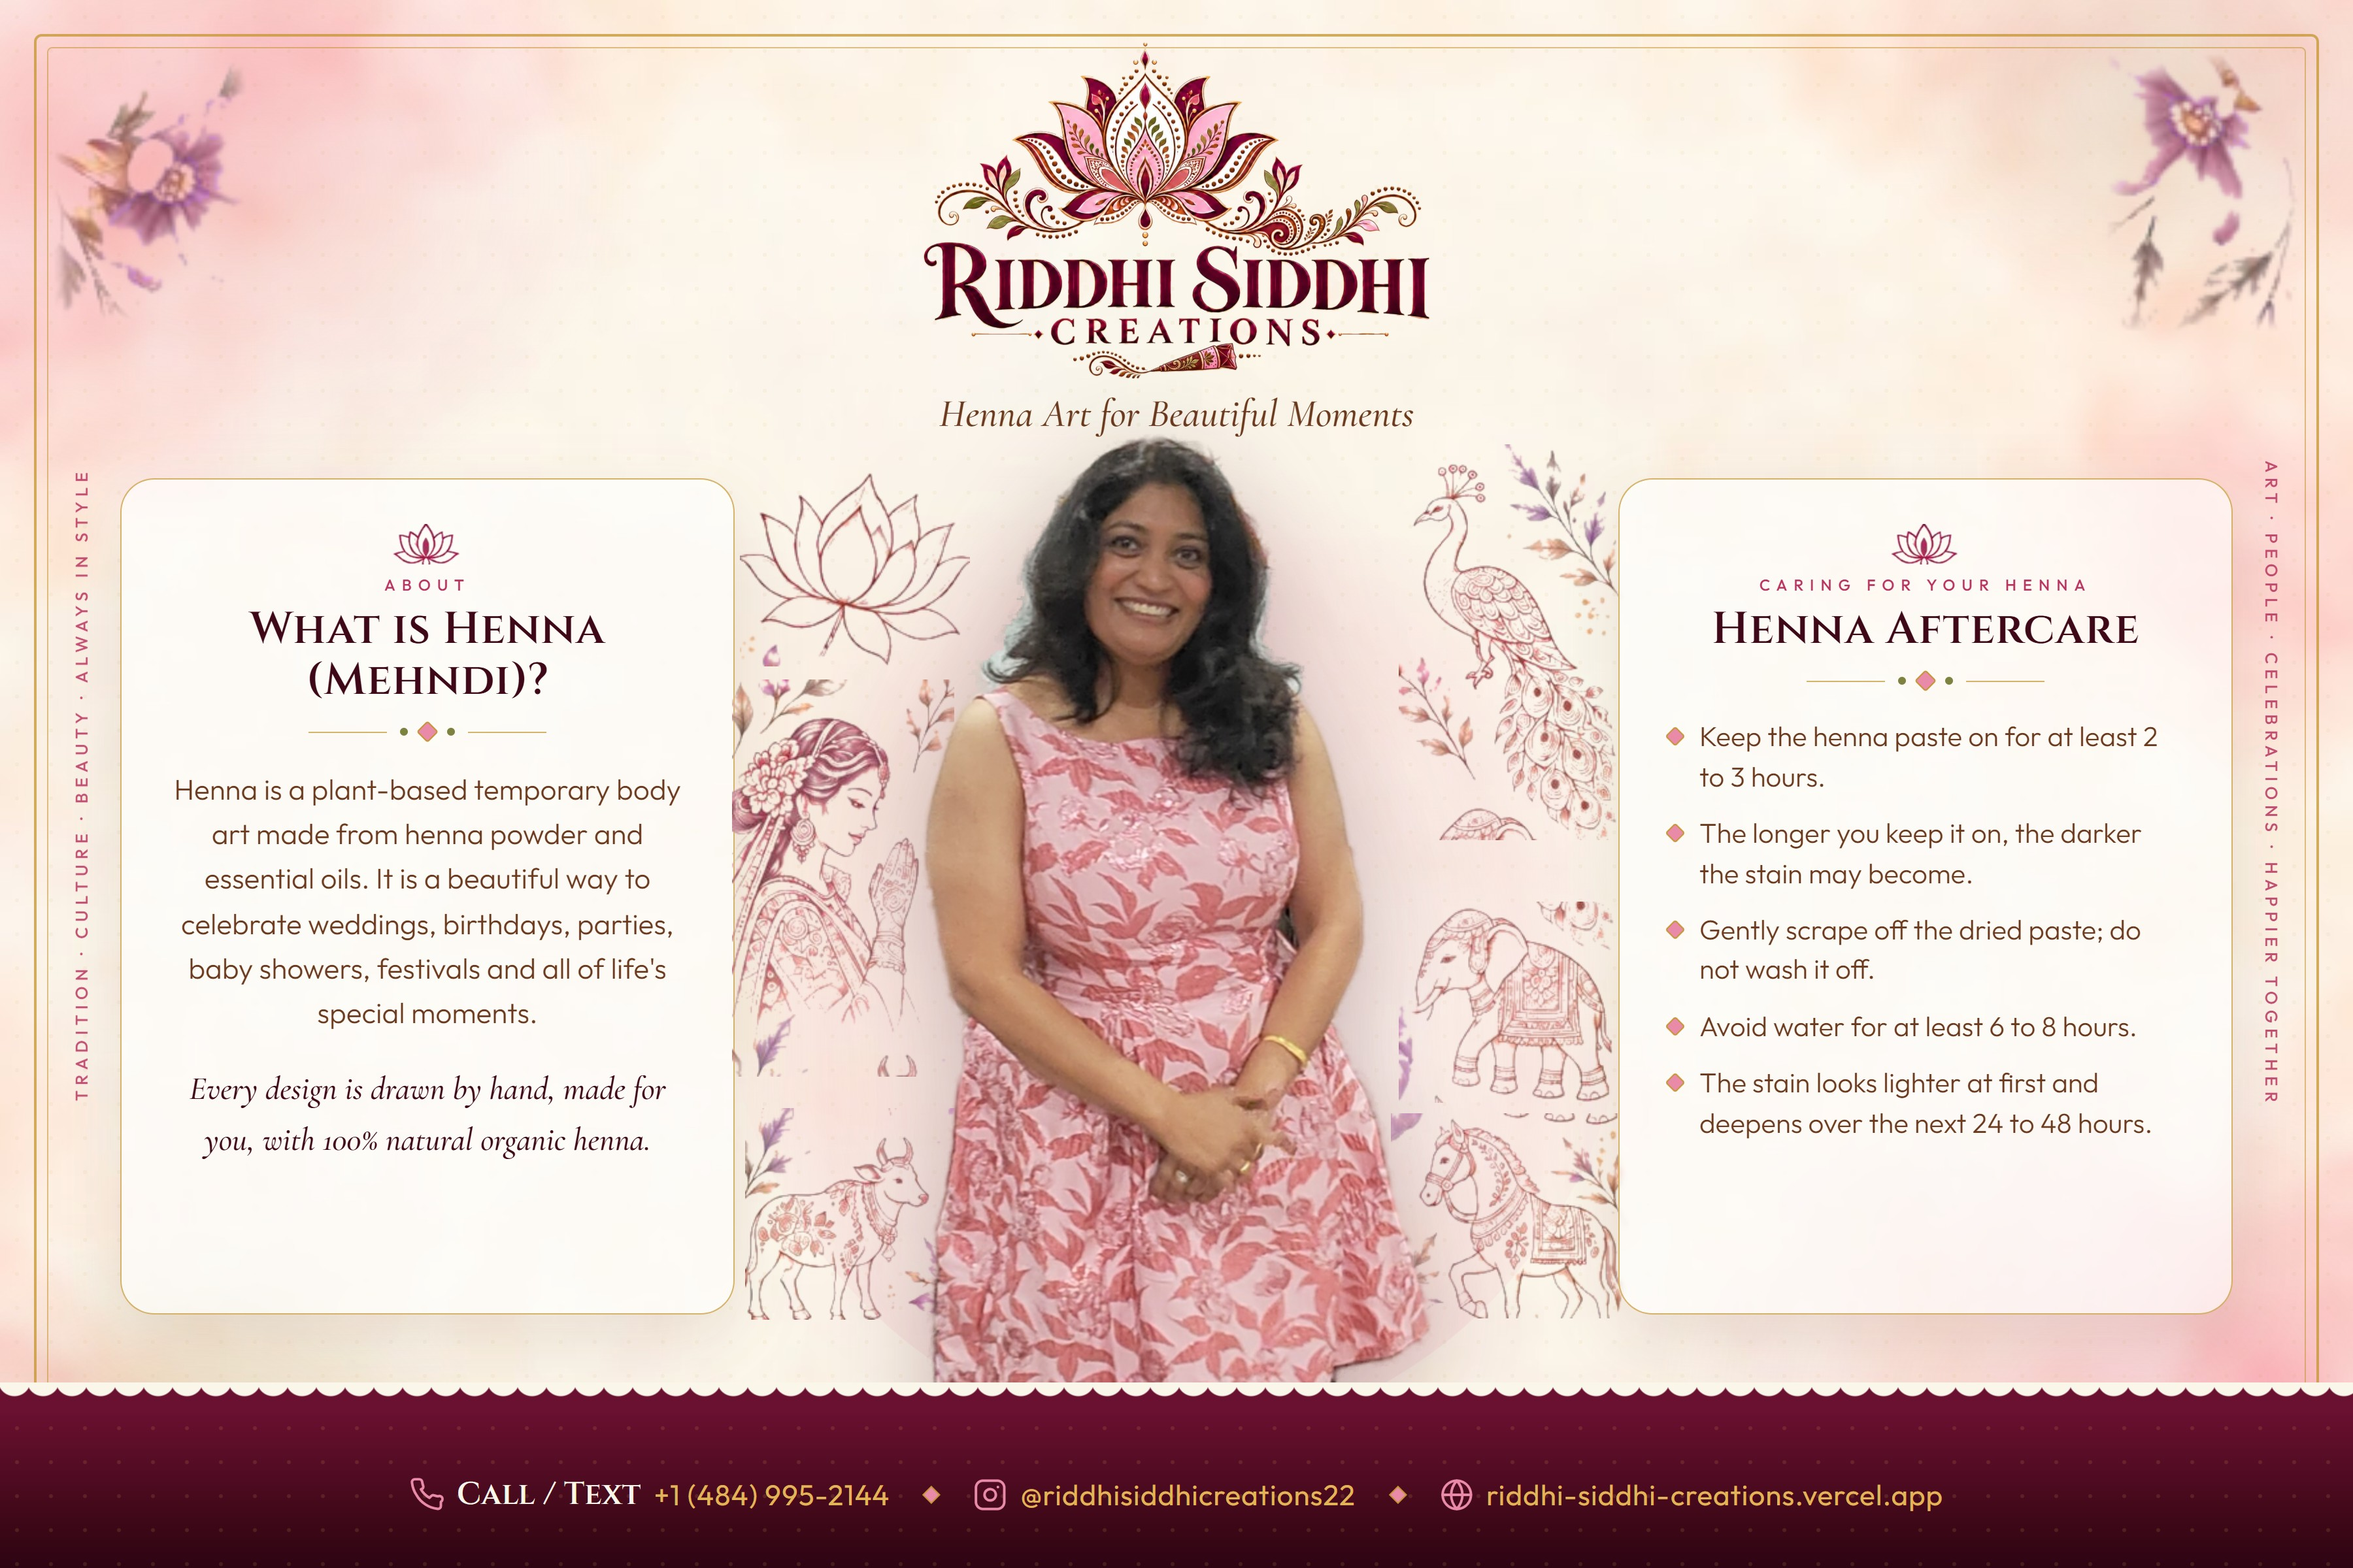
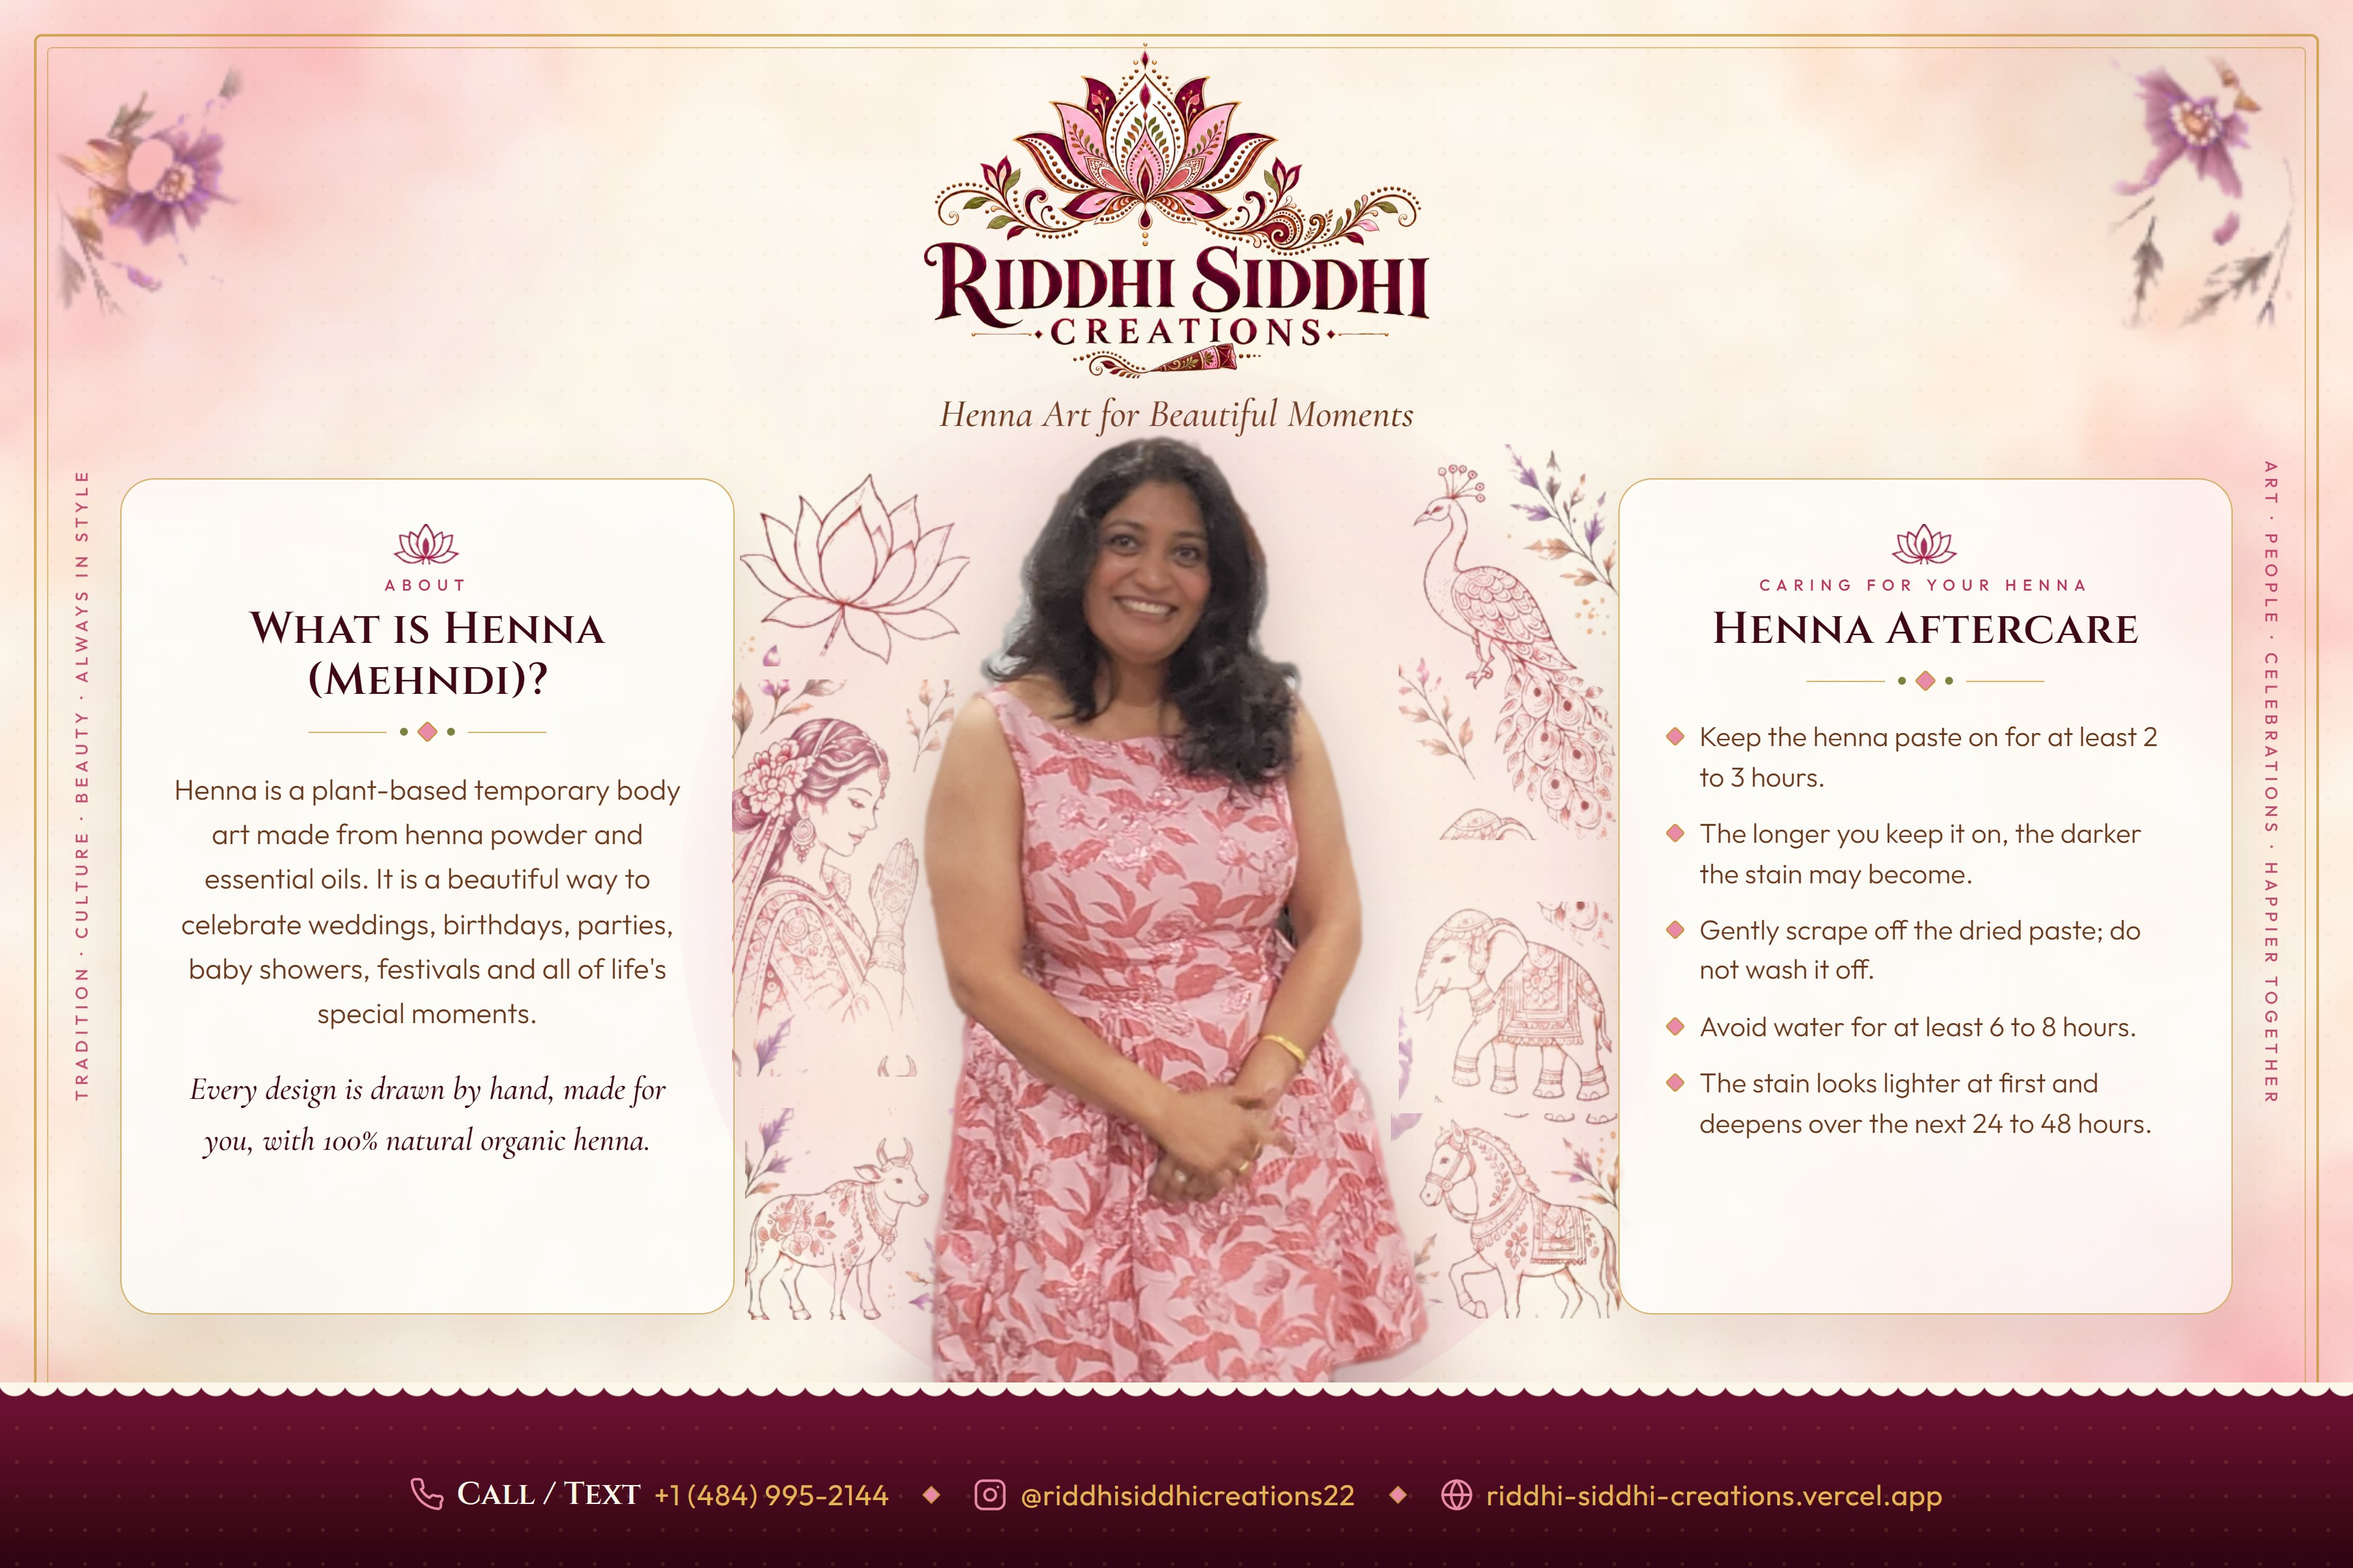
Poster: blend the real-photo figure (soft de-fringed edge, palette grade, glow and ground shadow)

diff --git a/docs/poster/poster.html b/docs/poster/poster.html
@@ -54,9 +54,11 @@
 
   /* the figure */
   .figure { left: 50%; bottom: 122px; transform: translateX(-50%); height: 750px; width: auto;
-    filter: drop-shadow(0 22px 40px rgba(62,8,24,.28)); }
-  .figure-glow { left: 50%; bottom: 100px; transform: translateX(-50%); width: 700px; height: 760px; border-radius: 50%;
-    background: radial-gradient(ellipse at 50% 60%, rgba(255,255,255,.45), rgba(233,139,168,.12) 55%, transparent 70%); }
+    filter: drop-shadow(0 16px 28px rgba(62,8,24,.22)); }
+  .figure-glow { left: 50%; bottom: 100px; transform: translateX(-50%); width: 760px; height: 820px; border-radius: 50%;
+    background: radial-gradient(ellipse at 50% 55%, rgba(255,255,255,.62), rgba(251,230,220,.45) 40%, rgba(233,139,168,.14) 62%, transparent 74%); }
+  .figure-shadow { left: 50%; bottom: 96px; transform: translateX(-50%); width: 560px; height: 90px; border-radius: 50%;
+    background: radial-gradient(ellipse, rgba(82,10,36,.22), transparent 70%); filter: blur(6px); }
 
   /* motifs in the gaps beside the figure */
   .motif { pointer-events: none; opacity: .95; }
@@ -149,6 +151,7 @@
 
   <!-- the figure -->
   <div class="figure-glow"></div>
+  <div class="figure-shadow"></div>
   <img class="figure" id="figure" src="assets/figure-real.png" alt="Siddhi Bhargava, henna artist" />
 
   <!-- right card: aftercare -->
